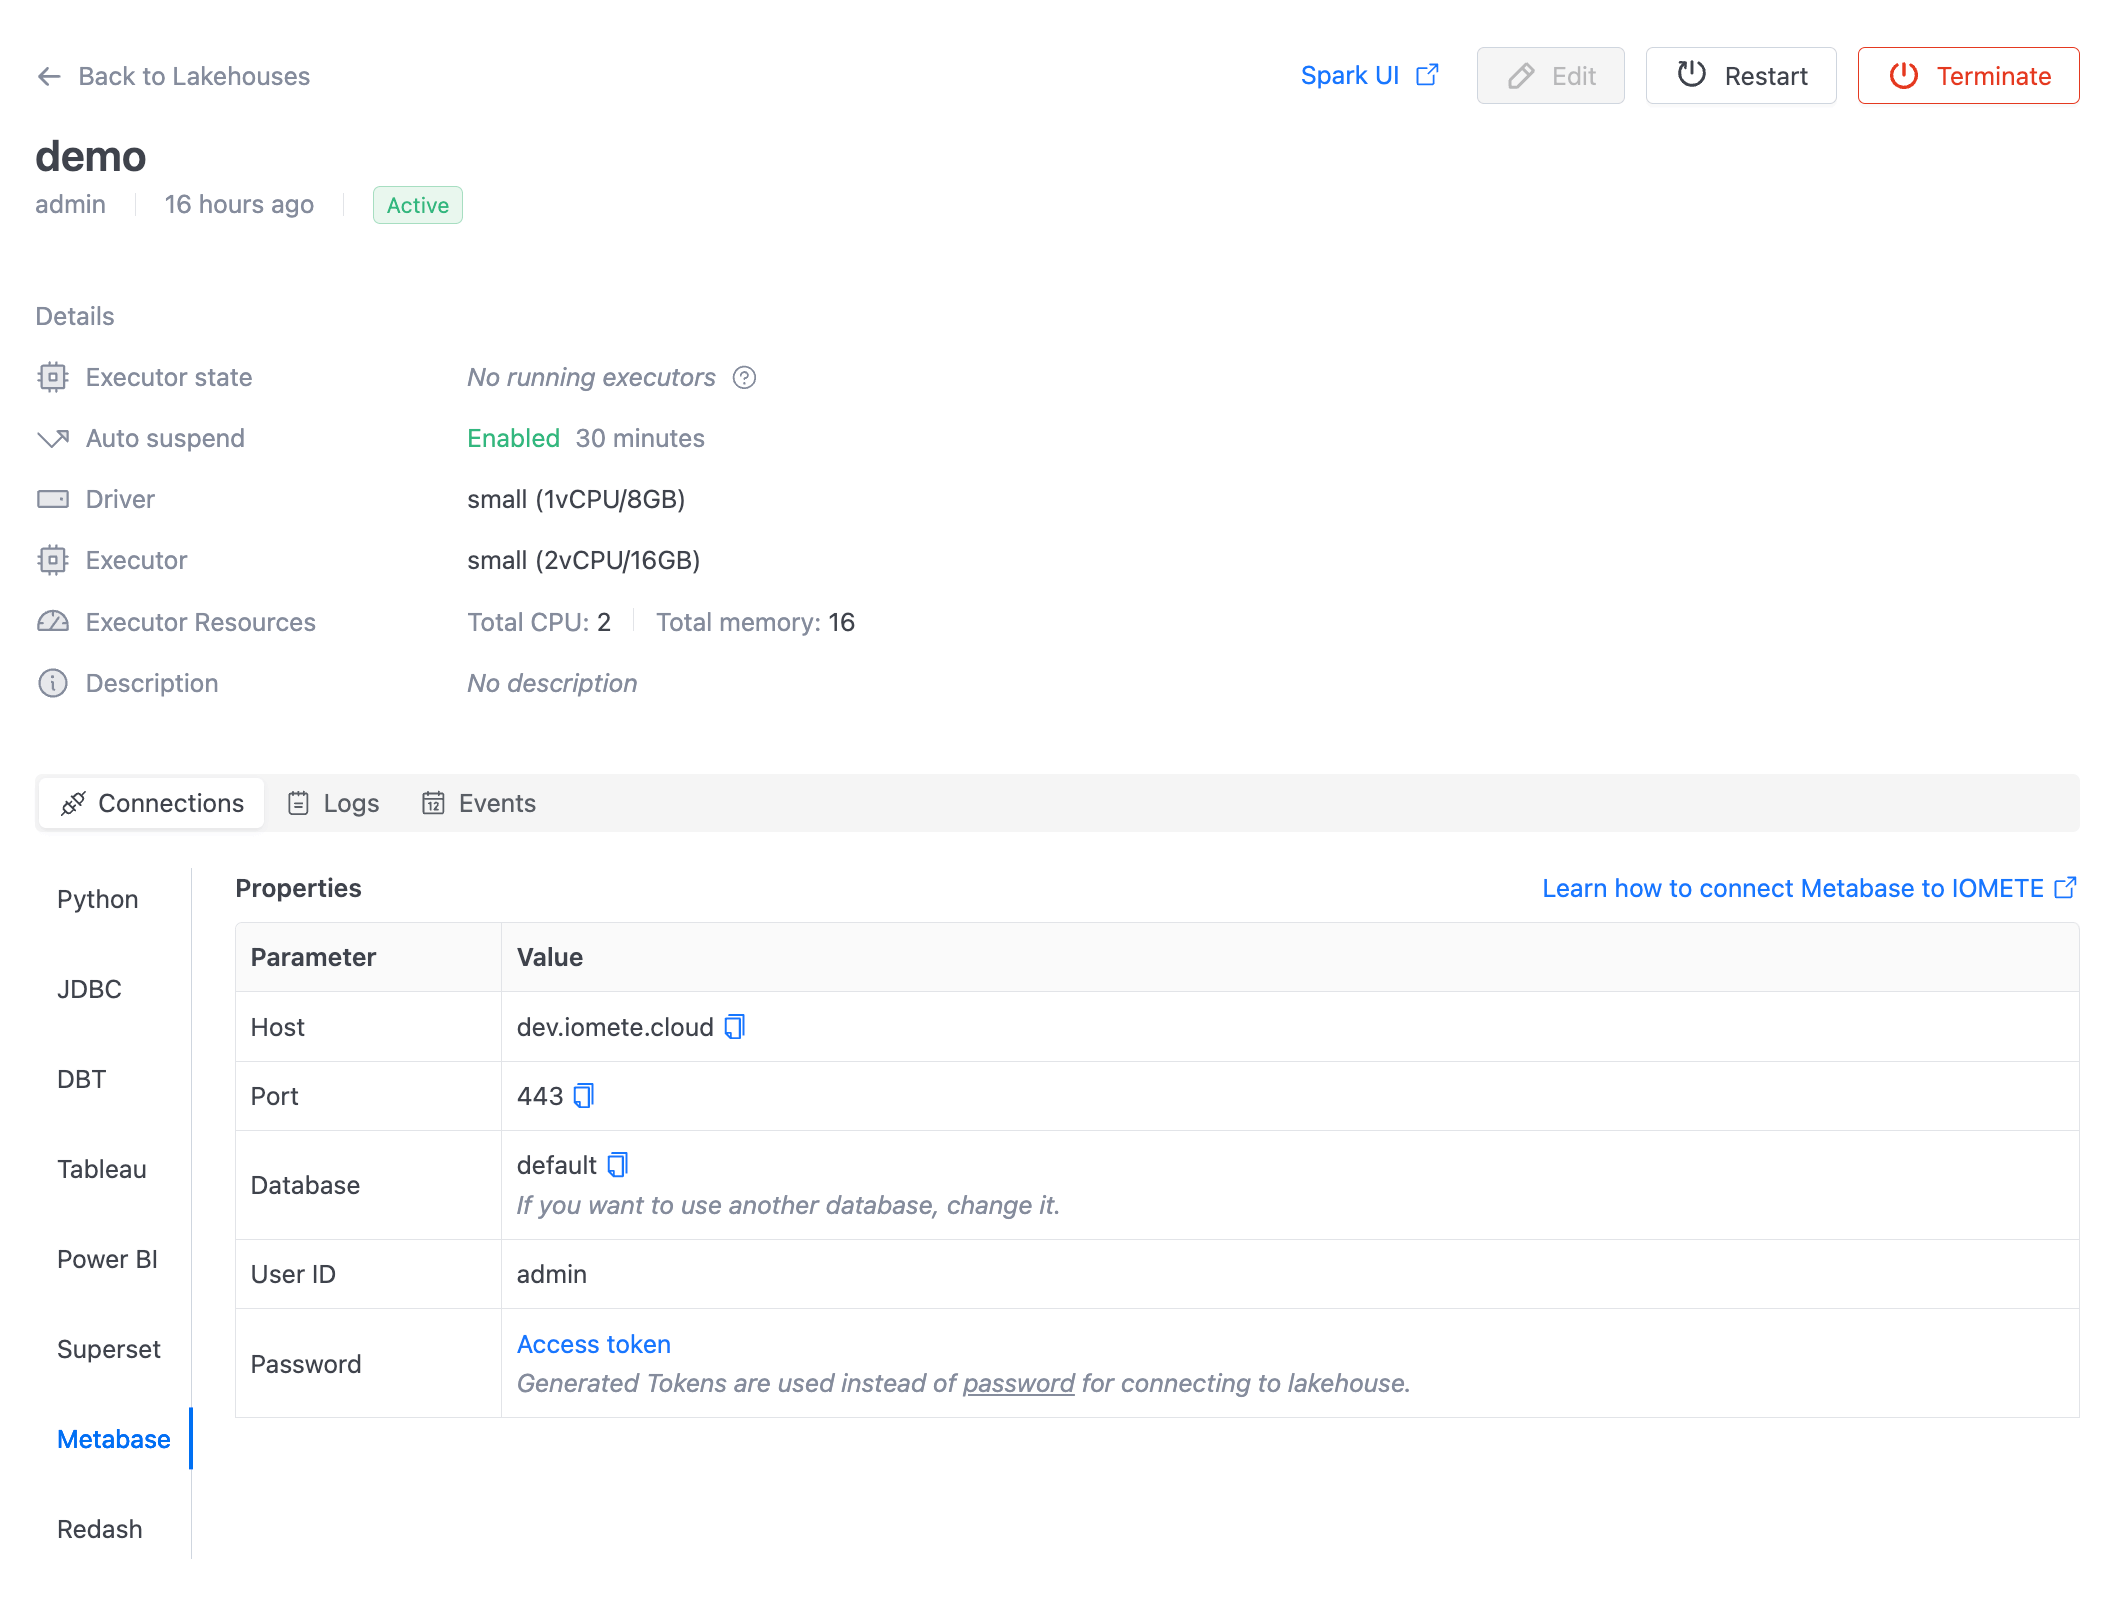
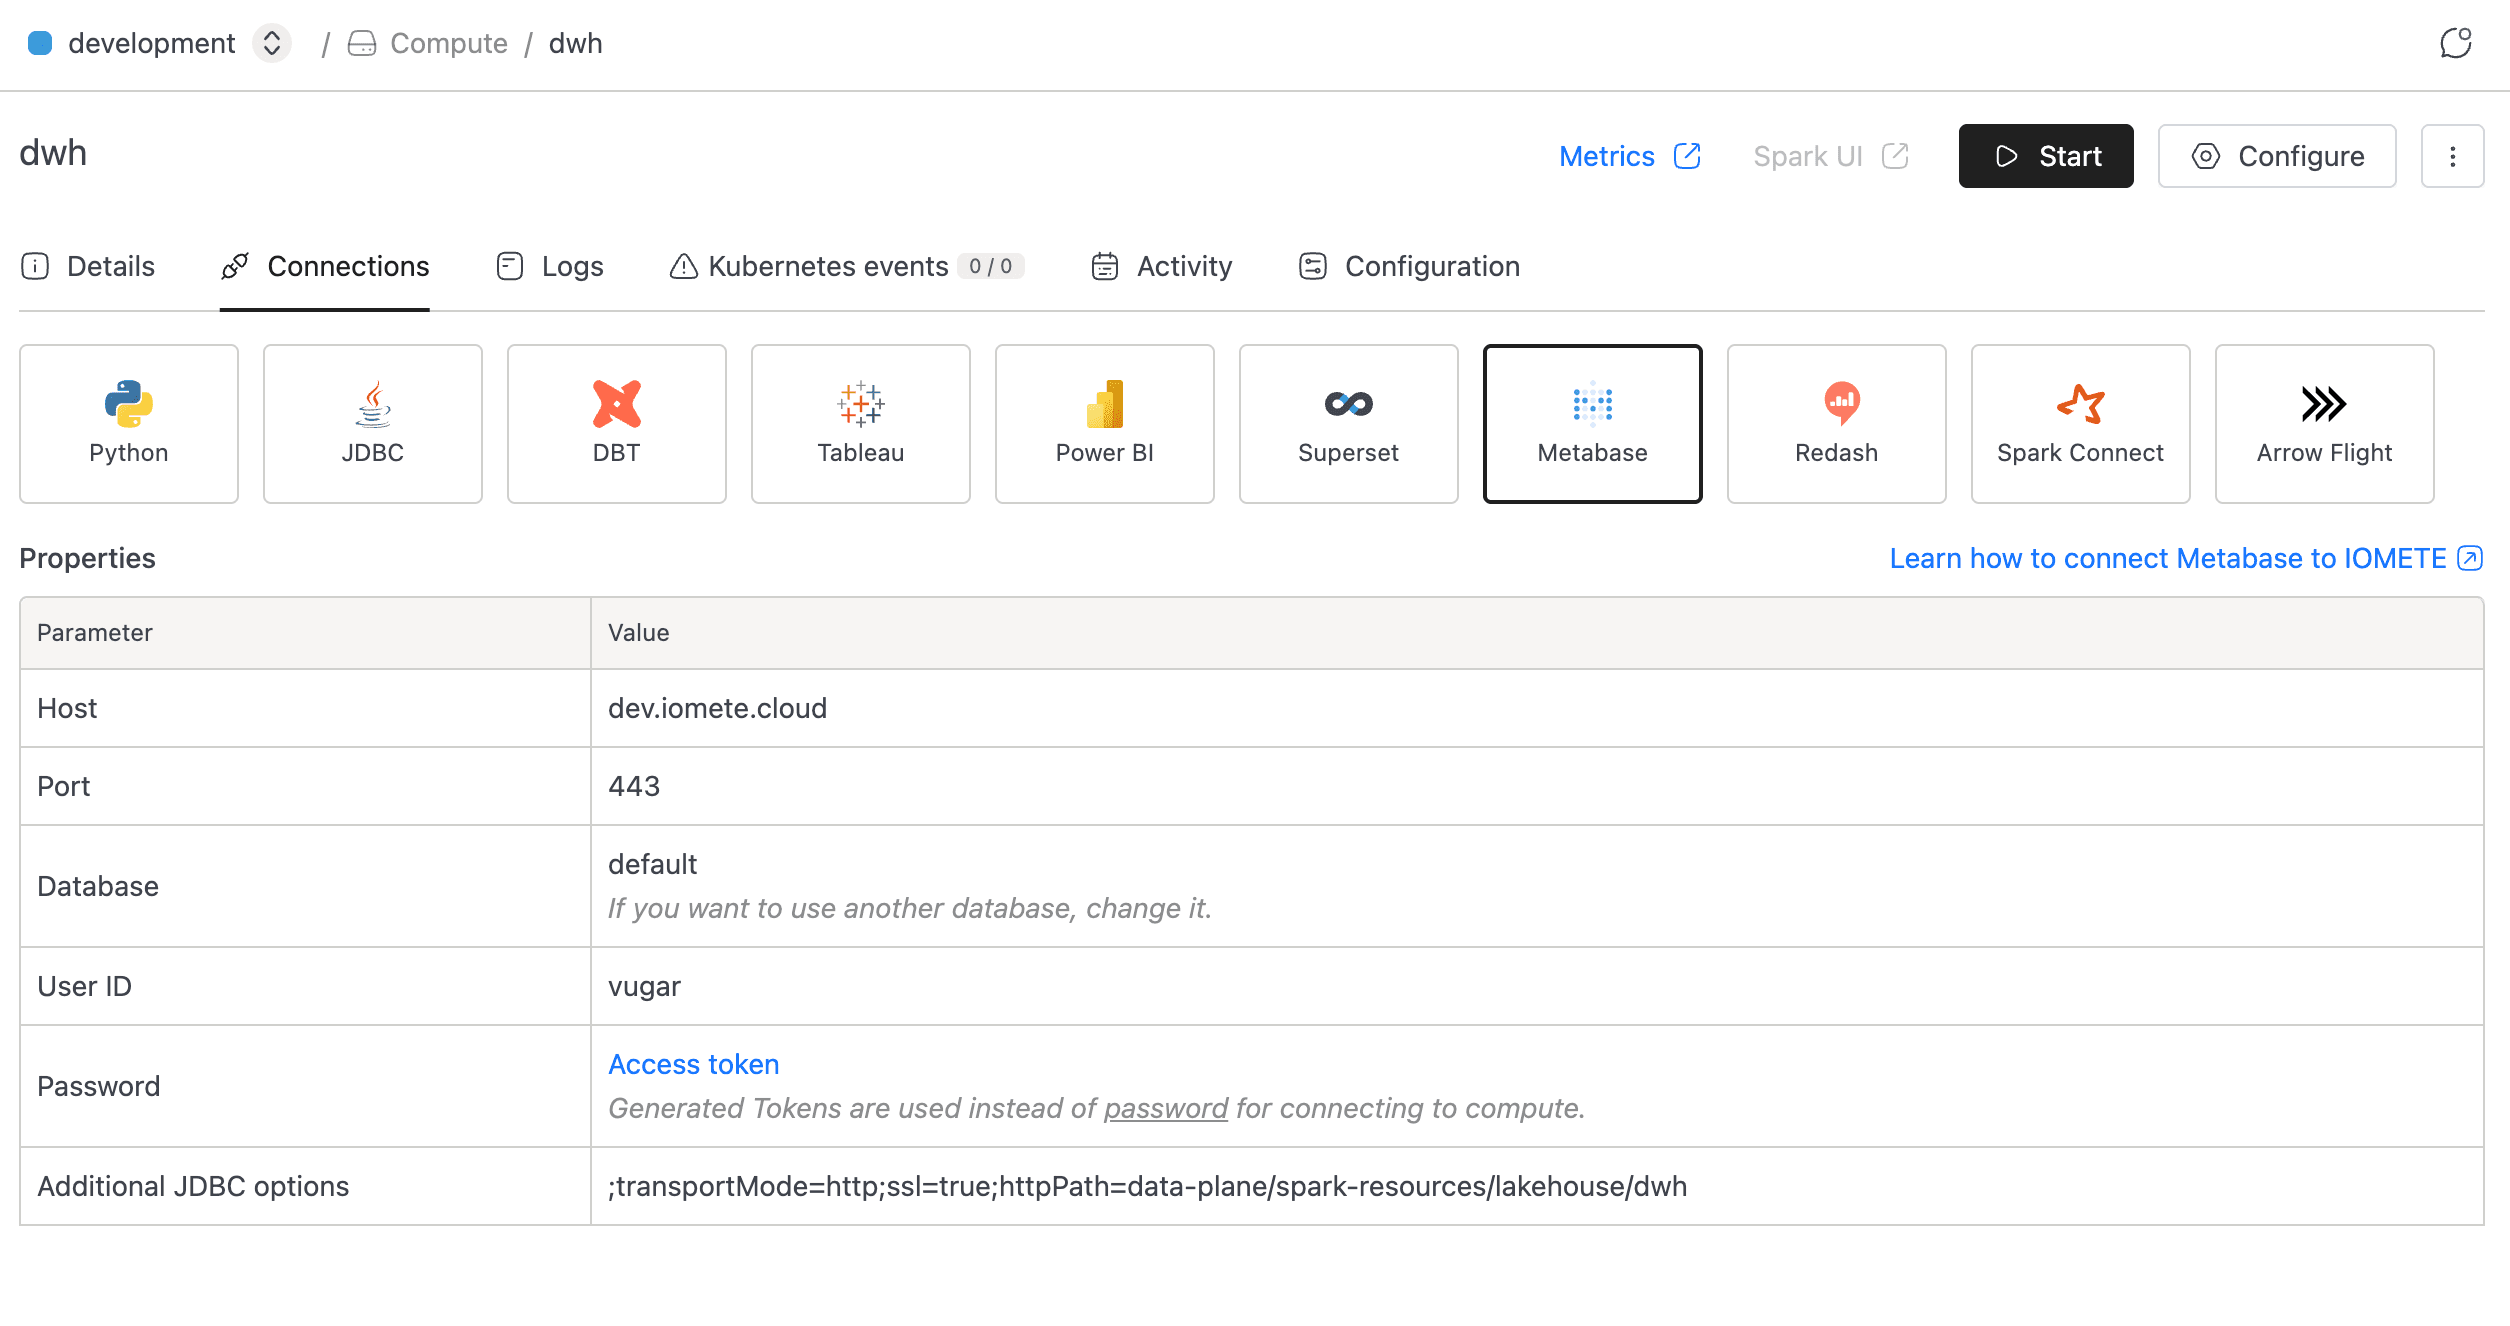
Update Metabase integration guide and replace connection images

diff --git a/docs/integrations/bi/metabase.md b/docs/integrations/bi/metabase.md
@@ -1,84 +1,67 @@
 ---
-title: Metabase - Connecting to IOMETE
+title: Metabase
 sidebar_label: Metabase
-description: How to connect iomete and Metabase BI. This guide explains how to effortlessly integrate iomete with one of the most popular BI tools Metabase
+description: Connect Metabase to IOMETE to build dashboards and explore your data without writing SQL.
 last_update:
-  date: 10/31/2022
+  date: 04/03/2026
+  author: Vugar Dadalov
 ---
 
 import Img from '@site/src/components/Img';
 
-![iomete metabase](/img/guides/metabase-bi/iomete-metabase.png)
+# Connecting Metabase to IOMETE
 
-Hi! In this guide, we will explain how to effortlessly integrate **IOMETE** with one of the most popular BI tools: **Metabase**.
+[Metabase](https://www.metabase.com/) is an open-source business intelligence tool that lets teams build dashboards and explore data without writing SQL. It also supports SQL queries for advanced users.
 
-## What is Metabase?
+This guide walks you through connecting Metabase to your IOMETE [compute cluster](/user-guide/compute-clusters/overview).
 
-As data engineers or analysts, we can understand SQL language. But other departments and teams are not. Metabase is an open-source Business Intelligence interface that allows querying no SQL required. With Metabase interactive dashboards and automated reports are available for teams. Advanced embedding capabilities make it simple to share your data in presentations, publications, and even products.
+## Running Metabase Locally
 
-### How to run Metabase Locally
+Skip this section if you already have a Metabase instance running.
 
-We first provide basic instructions on how to set up and run Metabase locally. You can skip this step if you wish to run a Metabase instance in a production or development environment.
-
-Let’s run [Metabase on Docker](https://www.metabase.com/docs/latest/installation-and-operation/running-metabase-on-docker).
-
-Run this commands in your terminal:
+You can run Metabase locally using [Docker](https://www.metabase.com/docs/latest/installation-and-operation/running-metabase-on-docker):
 
 ```bash
 docker pull metabase/metabase:latest
 
 docker run -d -p 3000:3000 --name metabase metabase/metabase
-
-# Optionally to view logs (for debug purposes)
-docker logs -f metabase
 ```
 
-Now you should be able to access http://localhost:3000
+Metabase will be available at `http://localhost:3000`. See the [Metabase installation docs](https://www.metabase.com/docs/latest/installation-and-operation/installing-metabase) for other deployment options.
 
-Read more in [Metabase documentation](https://www.metabase.com/docs/latest/installation-and-operation/installing-metabase)
+## Adding IOMETE as a Data Source
 
-Now let’s go to the main part of this guide👇🏻
+You can add IOMETE during the initial Metabase setup or later from **Admin Settings**.
 
-### Add iomete as the data source
+1. Select **Spark SQL** as your database type.
 
-The next step is to connect the iomete lakehouse to Metabase.
+<Img src="/img/guides/metabase-bi/choose-datasource.png" alt="Selecting Spark SQL as database type in Metabase" borderless maxWidth="500px" />
 
-You can also do this during the Metabase setup process or later from the **Admin Settings** menu.
+2. Fill in the connection fields using values from the [compute cluster](/user-guide/compute-clusters/managing-clusters#connections-tab) details page in the IOMETE console.
 
-Select **Spark SQL** as your database:
+<Img src="/img/guides/metabase-bi/connection-details.png" alt="IOMETE compute cluster connection details" />
 
-![Choose datasource](/img/guides/metabase-bi/choose-datasource.png)
+| Property                | Value                                                                                             |
+| ----------------------- | ------------------------------------------------------------------------------------------------- |
+| Host                    | \{domain or IP address}                                                                           |
+| Port                    | \{server port}                                                                                    |
+| Database                | \{database name}                                                                                  |
+| Username (User ID)      | \{your user name}                                                                                 |
+| Password                | \{[personal access token](/user-guide/create-a-personal-access-token)}                            |
+| Additional JDBC options | `;transportMode=http;ssl=true;httpPath=data-plane/{namespace}/lakehouse/{compute_cluster_name}` |
 
-For connection details go to the [iomete app](https://app.iomete.com), select the lakehouse you want to connect to, and in the **Connection details,** you will find all the required information.
+<Img src="/img/guides/metabase-bi/connecting-metabase-and-iomete-2.png" alt="Metabase connection form filled with IOMETE details" maxWidth="500px" />
 
-<!-- ![Connection details](/img/guides/bi-connections/connection-details.png) -->
+3. After connecting, Metabase syncs metadata from IOMETE. You can track progress in the bottom-right corner.
 
-<Img src="/img/guides/metabase-bi/connection-details.png" alt="Iomete Metabase Connection details"/>
+<Img src="/img/guides/metabase-bi/metabase-connection-syncing.png" alt="Metabase syncing metadata from IOMETE" />
 
-Extract all connection properties from the connection string, referencing the "lakehouse" details sheet in IOMETE:
+## Exploring Data and Building Dashboards
 
-| Property           | Value                    |
-| ------------------ | ------------------------ |
-| Host               | \{domain or IP address}  |
-| Port               | \{server port}           |
-| Database           | \{database name}         |
-| Username (User ID) | \{your user name}        |
-| Password           | \{personal access token} |
+Once the sync completes, your tables appear in the Metabase database explorer.
 
-<!-- ![How to connect Metabase](/img/guides/metabase-bi/connecting-metabase-and-iomete.png) -->
+<Img src="/img/guides/metabase-bi/metabase-explorer.png" alt="IOMETE tables in the Metabase database explorer" />
 
-<Img src="/img/guides/metabase-bi/connecting-metabase-and-iomete-2.png" alt="How to connect Metabase" maxWidth="500px"/>
+From here you can create dashboards and visualizations.
 
-After connecting the iomete database to Metabase, it will require a couple of minutes to sync all the metadata from iomete. You will be able to track progress in the bottom right corner:
-
-![Metabase connection syncing](/img/guides/metabase-bi/metabase-connection-syncing.png)
-
-After the synchronization process is completed you will be able to see your tables in the Metabase database explorer:
-
-![Metabase explorer](/img/guides/metabase-bi/metabase-explorer.png)
-
-The last step is to create a dashboard. In the example we created a simple bar graph - which probably is useless - but good enough for tutorial purposes 😄:
-
-![Metabase dashboard](/img/guides/metabase-bi/metabase-dashboard.png)
-
-As we told you, it is effortless. Reach out to us if you have any questions.
+<Img src="/img/guides/metabase-bi/metabase-dashboard.png" alt="Example Metabase dashboard with IOMETE data" />